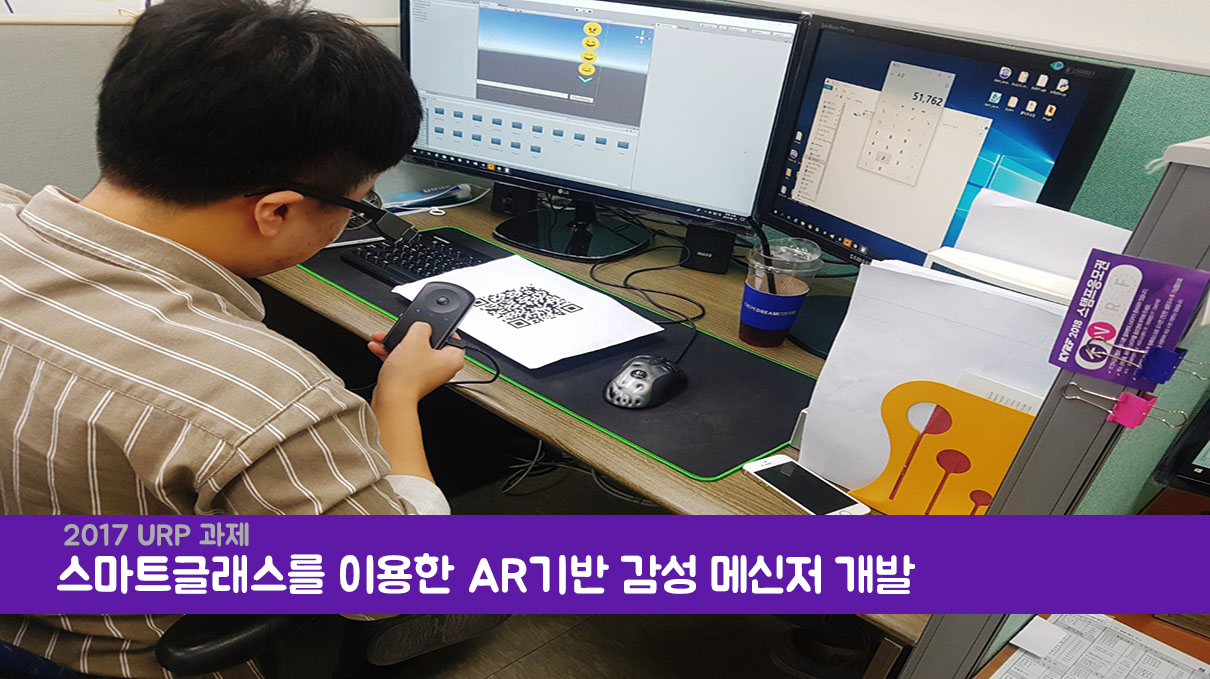
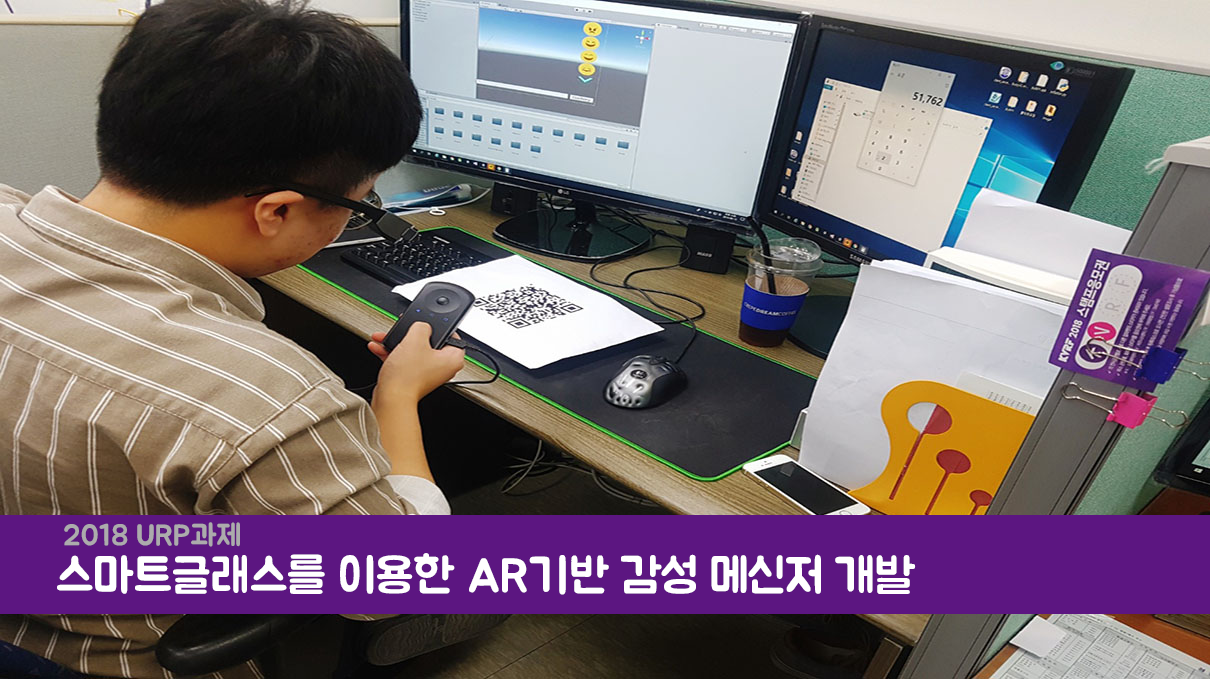
홈페이지수정
사진변경 (urp과제사진 2017 --> 2018)
메일추가(형익선배, 승세선배, 범철선배)

Changed region(s): [[0.0, 0.7423, 1.0, 0.9278]]

diff --git a/people.html b/people.html
@@ -86,21 +86,21 @@ layout: main
         <img src="{{ site.url }}/img/temp/temp_image_512.png" alt="Temp Image" class="img-circle img-responsive cmc-people-section-img-else center-block">
         <h1>전형익<br><small>Hong Kildong</small></h1>
         <p><span class="label label-success">2010</span> <span class="label label-info">1기</span> <span class="label label-default">1대 랩장</span></p>
-        <p>example@example.com</p>
+        <p>imuman@gmail.com</p>
       </div>
 
       <div class="col-md-4 col-sm-12">
         <img src="{{ site.url }}/img/temp/temp_image_512.png" alt="Temp Image" class="img-circle img-responsive cmc-people-section-img-else center-block">
         <h1>김범철<br><small>Hong Kildong</small></h1>
         <p><span class="label label-success">2012</span> <span class="label label-info">1기</span></p>
-        <p>example@example.com</p>
+        <p>nobleman1214@naver.com</p>
       </div>
 
       <div class="col-md-4 col-sm-12">
         <img src="{{ site.url }}/img/temp/temp_image_512.png" alt="Temp Image" class="img-circle img-responsive cmc-people-section-img-else center-block">
         <h1>길승세<br><small>Hong Kildong</small></h1>
         <p><span class="label label-success">2012</span> <span class="label label-info">1기</span></p>
-        <p>example@example.com</p>
+        <p>rlfcksdlf@naver.com</p>
       </div>
 
     </div>

diff --git a/papers.html b/papers.html
@@ -128,11 +128,12 @@ layout: main
 
     <!--특허-->
     <div class="container cmc-section ">
-      <h1 class="cmc-container-header">특허<br><small>Etc.</small></h1>
+      <h1 class="cmc-container-header">특허<br><small>Patent</small></h1>
     <hr>
 
       <div class="container cmc-section cmc-professor-education">
-        <table>
+          <div class="table-responsive">
+        <table class="table">
           <tr>
             <th>날짜</th>
             <th>제목</th>
@@ -232,6 +233,7 @@ layout: main
             <td>출원</td>
           </tr>
         </table>
+      </div>
       </div>
     </div>
 
